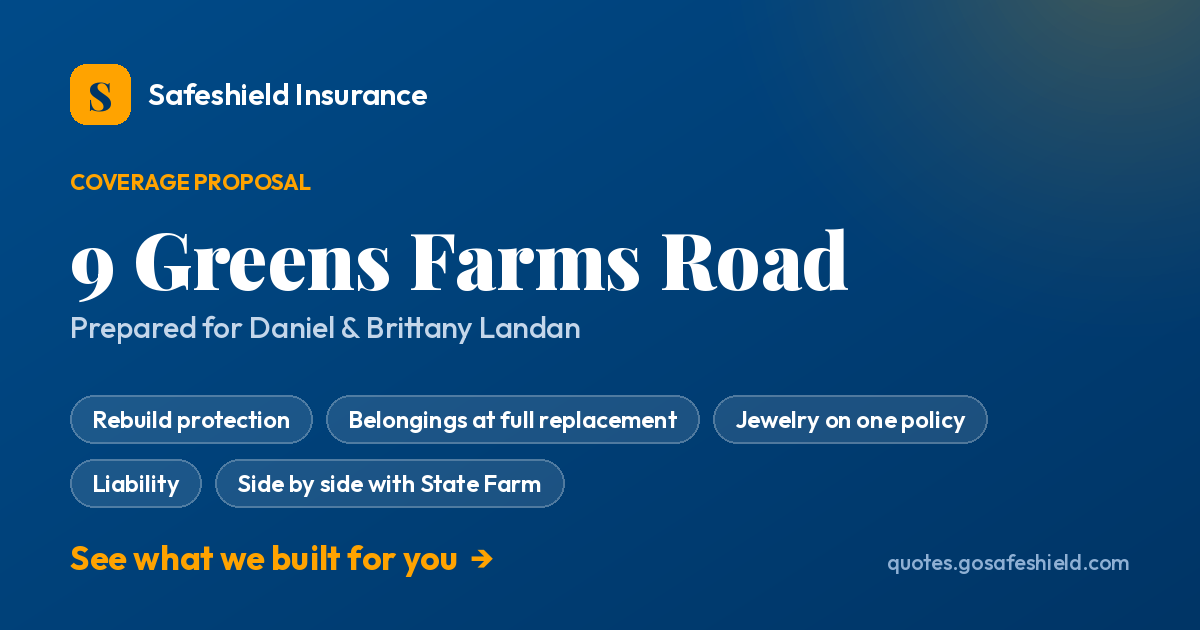
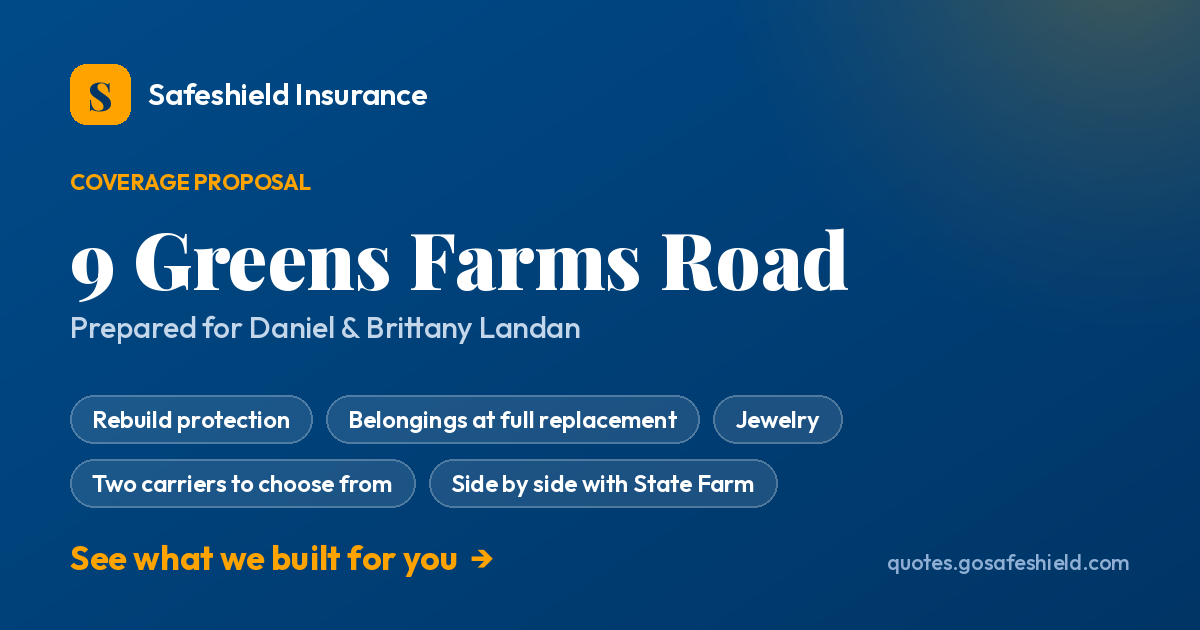
Update quote page: landan (add Travelers option)

Changed region(s): [[0.0617, 0.7238, 0.6475, 0.8143], [0.6783, 0.6032, 0.8325, 0.7238]]

diff --git a/landan/index.html b/landan/index.html
@@ -265,7 +265,40 @@
   .hl .big{font-family:'Playfair Display';font-weight:900;font-size:2rem;color:var(--gold);margin:8px 0 2px;line-height:1}
   .hl .t{font-size:.86rem;color:#c4d6ea}
   .hl .t b{color:#fff;font-weight:600}
+  .vs th.alt{background:var(--paper);color:var(--ink)}
+  .vs th.alt small{display:block;font-weight:500;color:var(--muted);font-size:.72rem}
+  .vs td.alt{font-family:'Outfit';font-weight:600;color:var(--ink);white-space:nowrap}
+  .vs tr.total td.alt{background:var(--navy);color:#fff}
+  .vs tr.group td.alt,.vs tr.group td{background:var(--paper)}
+  .vs td.flag{color:var(--gold-deep)}
+  .vs .tbl{overflow-x:auto}
+  .pick{display:grid;grid-template-columns:1fr 1fr;gap:16px}
+  .pcard{border-radius:18px;padding:26px 24px;position:relative}
+  .pcard.rec{background:linear-gradient(158deg,var(--navy),var(--dark));color:#eaf1f9}
+  .pcard.alt{background:var(--white);border:1.5px solid var(--line);color:var(--ink)}
+  .pcard .badge{display:inline-block;font-family:'Outfit';font-size:.68rem;font-weight:800;letter-spacing:.08em;text-transform:uppercase;padding:4px 11px;border-radius:999px}
+  .pcard.rec .badge{background:var(--gold);color:var(--dark)}
+  .pcard.alt .badge{background:var(--paper);color:var(--muted);border:1px solid var(--line)}
+  .pcard h3{font-size:1.4rem;margin:12px 0 4px}
+  .pcard.rec h3{color:#fff}
+  .pcard .pr{font-family:'Playfair Display';font-weight:900;font-size:2rem;line-height:1;margin:10px 0 4px}
+  .pcard.rec .pr{color:var(--gold)}
+  .pcard.alt .pr{color:var(--navy)}
+  .pcard .pr small{font-family:'Outfit';font-weight:600;font-size:.85rem}
+  .pcard.rec .pr small{color:#a9c6e4}
+  .pcard.alt .pr small{color:var(--muted)}
+  .pcard .yr{font-size:.86rem}
+  .pcard.rec .yr{color:#c4d6ea}
+  .pcard.alt .yr{color:var(--muted)}
+  .pcard ul{list-style:none;margin-top:14px;display:flex;flex-direction:column;gap:9px}
+  .pcard li{font-size:.9rem;padding-left:22px;position:relative}
+  .pcard li::before{content:"✓";position:absolute;left:0;font-weight:800}
+  .pcard.rec li::before{color:var(--gold)}
+  .pcard.alt li::before{color:var(--now)}
+  .pcard li.minus::before{content:"–";color:var(--gold-deep)}
   @media(max-width:760px){
+    .pick{grid-template-columns:1fr}
+    .vs table{min-width:640px}
     .hilite{grid-template-columns:1fr}
     .vs td,.vs th{padding:11px 12px;font-size:.84rem}
     .vs td.ours,.vs td.theirs{white-space:normal}
@@ -283,7 +316,7 @@
     </div>
     <div class="eyebrow">Coverage Proposal</div>
     <h1>9 Greens Farms Road</h1>
-    <p class="lead">We put your current State Farm homeowners policy and your separate jewelry policy side by side with what we built. <b>More house, more belongings paid at full replacement, the jewelry folded in, and it costs a little less.</b> Every number is below.</p>
+    <p class="lead">We put your current State Farm homeowners policy and your separate jewelry policy side by side with what we built. <b>More house, more belongings paid at full replacement, the jewelry folded in, and it costs a little less.</b> You also asked to see a Travelers option, so that is on the page too. Every number is below, and the choice is yours.</p>
     <div class="metastrip">
       <div><div class="k">Prepared for</div><div class="v">Daniel &amp; Brittany Landan</div></div>
       <div><div class="k">Effective</div><div class="v">09/14/2026 to 09/14/2027</div></div>
@@ -338,58 +371,97 @@
   <div class="wrap">
     <div class="sec-head">
       <div class="eyebrow">Side by side</div>
-      <h2>What you have today, next to what we built</h2>
-      <p>State Farm's numbers come straight off the renewal paperwork you sent us (homeowners plus the jewelry policy). Ours come off the Narragansett Bay quote. Green arrows are where you gain.</p>
+      <h2>What you have today, next to both options</h2>
+      <p>State Farm's numbers come straight off the renewal paperwork you sent us (homeowners plus the jewelry policy). The other two columns come off the Narragansett Bay and Travelers quotes. Green arrows are where the Narragansett Bay option gains on State Farm.</p>
     </div>
     <div class="hilite">
       <div class="hl"><div class="k">More house</div><div class="big">+$263,300</div><div class="t">Rebuild limit goes from <b>$773,700</b> to <b>$1,037,000</b>. With the cushion on top, from $967,125 to $1,296,250.</div></div>
       <div class="hl"><div class="k">More belongings</div><div class="big">+$145,625</div><div class="t">From <b>$580,275</b> to <b>$725,900</b>, and paid at full replacement cost instead of a limited version.</div></div>
       <div class="hl"><div class="k">And the price</div><div class="big">$39 less</div><div class="t">Both State Farm policies add up to <b>$4,705</b> a year. This one is <b>$4,666</b>, jewelry included.</div></div>
     </div>
-    <div class="vs">
+    <div class="vs"><div class="tbl">
       <table>
         <thead>
           <tr>
             <th></th>
-            <th class="ours">Safeshield proposal<small>Narragansett Bay, one policy</small></th>
+            <th class="ours">Narragansett Bay<small>Our recommendation, one policy</small></th>
+            <th class="alt">Travelers<small>The option you asked about, two policies</small></th>
             <th class="theirs">State Farm today<small>Homeowners + jewelry policy</small></th>
           </tr>
         </thead>
         <tbody>
-          <tr class="group"><td colspan="3">The house</td></tr>
-          <tr class="win"><td class="lbl">Rebuild the house<small>What the policy pays to put it back after a total loss</small></td><td class="ours">$1,037,000</td><td class="theirs">$773,700</td></tr>
-          <tr class="win"><td class="lbl">Extra if rebuilding runs over<small>The cushion above the rebuild number</small></td><td class="ours">+$259,250 (25%)</td><td class="theirs">+$193,425</td></tr>
-          <tr class="win"><td class="lbl">Total rebuild protection<small>Rebuild limit plus the cushion</small></td><td class="ours">$1,296,250</td><td class="theirs">$967,125</td></tr>
-          <tr class="win"><td class="lbl">Detached structures<small>Shed, fence, pool, anything not attached</small></td><td class="ours">$103,700</td><td class="theirs">$77,370</td></tr>
-          <tr class="win"><td class="lbl">Rebuilding to today's building code<small>Extra cost when the town requires newer standards</small></td><td class="ours">$103,700</td><td class="theirs">$77,370</td></tr>
-
-          <tr class="group"><td colspan="3">Everything inside</td></tr>
-          <tr class="win"><td class="lbl">Your belongings<small>Furniture, electronics, clothes, tools, all of it</small></td><td class="ours">$725,900</td><td class="theirs">$580,275</td></tr>
-          <tr class="win"><td class="lbl">How belongings are paid<small>This line matters more than almost anything else on the page</small></td><td class="ours">Full replacement cost</td><td class="theirs">Limited replacement cost</td></tr>
-          <tr class="win"><td class="lbl">Jewelry<small>Scheduled, with the value agreed up front</small></td><td class="ours">$15,164 on this policy</td><td class="theirs">$15,164 on a 2nd policy</td></tr>
-          <tr class="win"><td class="lbl">Living costs if you cannot use the house<small>Hotel, rental, meals while it is rebuilt</small></td><td class="ours">$311,100</td><td class="theirs">$232,110</td></tr>
-
-          <tr class="group"><td colspan="3">You, personally</td></tr>
-          <tr class="same"><td class="lbl">If someone gets hurt<small>Liability for injuries and the lawyers that come with them</small></td><td class="ours">$500,000</td><td class="theirs">$500,000</td></tr>
-          <tr class="same"><td class="lbl">Small injuries, no lawsuit needed<small>Medical bills for a guest</small></td><td class="ours">$5,000</td><td class="theirs">$5,000</td></tr>
-          <tr class="win"><td class="lbl">Libel, slander, invasion of privacy<small>Personal injury liability</small></td><td class="ours">Included</td><td class="theirs">Not on the policy</td></tr>
-          <tr class="win"><td class="lbl">Identity theft expenses</td><td class="ours">$15,000</td><td class="theirs">Not on the policy</td></tr>
-
-          <tr class="group"><td colspan="3">The quiet extras</td></tr>
-          <tr class="win"><td class="lbl">Furnace, AC, water heater, appliances breaking down<small>Equipment breakdown</small></td><td class="ours">$100,000</td><td class="theirs">Not on the policy</td></tr>
-          <tr class="win"><td class="lbl">Mold cleanup after a covered water loss</td><td class="ours">$10,000 / $50,000</td><td class="theirs">$10,000</td></tr>
-          <tr class="win"><td class="lbl">Neighborhood or association assessments</td><td class="ours">$1,000</td><td class="theirs">Not on the policy</td></tr>
-          <tr class="theirs-win"><td class="lbl">Sewer or sump pump backup<small>State Farm is higher here. See the straight talk section below.</small></td><td class="ours">$10,000</td><td class="theirs">$38,685</td></tr>
-
-          <tr class="group"><td colspan="3">Your share on a claim</td></tr>
-          <tr class="theirs-win"><td class="lbl">Deductible on most claims</td><td class="ours">$2,500</td><td class="theirs">$2,000</td></tr>
-          <tr><td class="lbl">Deductible on a named hurricane<small>Both are 2% of the rebuild limit, so ours is larger because the house is insured for more</small></td><td class="ours">$20,740</td><td class="theirs">$15,474</td></tr>
-
-          <tr class="total"><td class="lbl">Total for the year<small>House, belongings, and jewelry, all in</small></td><td class="ours">$4,666</td><td class="theirs">$4,705</td></tr>
+          <tr class="group"><td colspan="4">The house</td></tr>
+          <tr class="win"><td class="lbl">Rebuild the house<small>What the policy pays to put it back after a total loss</small></td><td class="ours">$1,037,000</td><td class="alt">$1,000,000</td><td class="theirs">$773,700</td></tr>
+          <tr class="win"><td class="lbl">Extra if rebuilding runs over<small>The cushion above the rebuild number</small></td><td class="ours">+$259,250 (25%)</td><td class="alt">+$250,000 (25%)</td><td class="theirs">+$193,425</td></tr>
+          <tr class="win"><td class="lbl">Total rebuild protection<small>Rebuild limit plus the cushion</small></td><td class="ours">$1,296,250</td><td class="alt">$1,250,000</td><td class="theirs">$967,125</td></tr>
+          <tr class="win"><td class="lbl">Detached structures<small>Shed, fence, pool, anything not attached</small></td><td class="ours">$103,700</td><td class="alt">$100,000</td><td class="theirs">$77,370</td></tr>
+          <tr class="win"><td class="lbl">Rebuilding to today's building code<small>Extra cost when the town requires newer standards</small></td><td class="ours">$103,700</td><td class="alt">Included</td><td class="theirs">$77,370</td></tr>
+          <tr class=""><td class="lbl">Roof after a wind or hail storm<small>How an 18-year-old roof is paid</small></td><td class="ours">Full repair cost</td><td class="alt">Paid on an age schedule <span class="flag">▲</span></td><td class="theirs">Full repair cost</td></tr>
+          <tr class="group"><td colspan="4">Everything inside</td></tr>
+          <tr class="win"><td class="lbl">Your belongings<small>Furniture, electronics, clothes, tools, all of it</small></td><td class="ours">$725,900</td><td class="alt">$500,000</td><td class="theirs">$580,275</td></tr>
+          <tr class="win"><td class="lbl">How belongings are paid<small>This line matters more than almost anything else on the page</small></td><td class="ours">Full replacement cost</td><td class="alt">Full replacement cost</td><td class="theirs">Limited replacement cost</td></tr>
+          <tr class="win"><td class="lbl">Jewelry<small>Scheduled, with the value agreed up front</small></td><td class="ours">$15,164 on this policy</td><td class="alt">$15,710 on a 2nd policy</td><td class="theirs">$15,164 on a 2nd policy</td></tr>
+          <tr class="win"><td class="lbl">Living costs if you cannot use the house<small>Hotel, rental, meals while it is rebuilt</small></td><td class="ours">$311,100</td><td class="alt">$200,000 <span class="flag">▲</span></td><td class="theirs">$232,110</td></tr>
+          <tr class="group"><td colspan="4">You, personally</td></tr>
+          <tr class="same"><td class="lbl">If someone gets hurt<small>Liability for injuries and the lawyers that come with them</small></td><td class="ours">$500,000</td><td class="alt">$500,000</td><td class="theirs">$500,000</td></tr>
+          <tr class="same"><td class="lbl">Small injuries, no lawsuit needed<small>Medical bills for a guest</small></td><td class="ours">$5,000</td><td class="alt">$1,000</td><td class="theirs">$5,000</td></tr>
+          <tr class="win"><td class="lbl">Libel, slander, invasion of privacy<small>Personal injury liability</small></td><td class="ours">Included</td><td class="alt">Included</td><td class="theirs">Not on the policy</td></tr>
+          <tr class="win"><td class="lbl">Identity theft expenses</td><td class="ours">$15,000</td><td class="alt">Not on the policy</td><td class="theirs">Not on the policy</td></tr>
+          <tr class="group"><td colspan="4">The quiet extras</td></tr>
+          <tr class="win"><td class="lbl">Furnace, AC, water heater, appliances breaking down<small>Equipment breakdown</small></td><td class="ours">$100,000</td><td class="alt">Not on the policy</td><td class="theirs">Not on the policy</td></tr>
+          <tr class="win"><td class="lbl">Mold cleanup after a covered water loss</td><td class="ours">$10,000 / $50,000</td><td class="alt">Standard limit</td><td class="theirs">$10,000</td></tr>
+          <tr class="win"><td class="lbl">Neighborhood or association assessments</td><td class="ours">$1,000</td><td class="alt">Not on the policy</td><td class="theirs">Not on the policy</td></tr>
+          <tr class="theirs-win"><td class="lbl">Sewer or sump pump backup<small>State Farm is higher here. See the straight talk section below.</small></td><td class="ours">$10,000</td><td class="alt">$10,000</td><td class="theirs">$38,685</td></tr>
+          <tr class="group"><td colspan="4">Your share on a claim</td></tr>
+          <tr class="theirs-win"><td class="lbl">Deductible on most claims</td><td class="ours">$2,500</td><td class="alt">$2,500</td><td class="theirs">$2,000</td></tr>
+          <tr class=""><td class="lbl">Deductible on a named hurricane<small>All three are 2% of the rebuild limit, so the bigger the house is insured for, the bigger this is</small></td><td class="ours">$20,740</td><td class="alt">$20,000</td><td class="theirs">$15,474</td></tr>
+          <tr class="total"><td class="lbl">Total for the year<small>House, belongings, and jewelry, all in</small></td><td class="ours">$4,666</td><td class="alt">$5,228</td><td class="theirs">$4,705</td></tr>
         </tbody>
       </table>
+    </div></div>
+    <div class="vsnote">State Farm total is the $4,542 homeowners renewal (effective 09/21/2026) plus the $163 jewelry policy (renewed 08/10/2026). Travelers total is the $5,032 home quote plus the $196 engagement ring policy. All three are 12-month terms. ▲ marks a line worth reading in the straight talk section below.</div>
+  </div>
+</section>
+
+<!-- PICK -->
+<section class="tight">
+  <div class="wrap">
+    <div class="sec-head">
+      <div class="eyebrow">Your two options</div>
+      <h2>Both beat what you have. Here is how they differ.</h2>
+      <p>We lean Narragansett Bay, and the reasons are below. But this is your house and your call, and either one is a phone call away.</p>
     </div>
-    <div class="vsnote">State Farm total is the $4,542 homeowners renewal (effective 09/21/2026) plus the $163 jewelry policy (renewed 08/10/2026). Both use the same 12-month term.</div>
+    <div class="pick">
+      <div class="pcard rec">
+        <span class="badge">Our recommendation</span>
+        <h3>Narragansett Bay</h3>
+        <div class="pr">$388<small>/mo</small></div>
+        <div class="yr">$4,666 for the year, jewelry included, one policy and one bill</div>
+        <ul>
+          <li>Most house: $1,296,250 total rebuild protection</li>
+          <li>Most belongings: $725,900 at full replacement cost</li>
+          <li>$311,100 for living costs if you are displaced</li>
+          <li>Equipment breakdown and identity theft, which Travelers does not offer here</li>
+          <li>Roof paid at full repair cost after a storm, no age schedule</li>
+          <li>Lowest price of the three</li>
+        </ul>
+      </div>
+      <div class="pcard alt">
+        <span class="badge">The Travelers option</span>
+        <h3>Travelers</h3>
+        <div class="pr">$436<small>/mo</small></div>
+        <div class="yr">$5,228 for the year: $5,032 for the house plus a $196 ring policy, two bills</div>
+        <ul>
+          <li>A name you know, with $1,250,000 total rebuild protection</li>
+          <li>Belongings at full replacement cost, $500,000</li>
+          <li>Engagement ring scheduled at $15,710 with no deductible</li>
+          <li>Water backup and personal injury included</li>
+          <li class="minus">$200,000 for living costs, which Travelers itself flags as below their usual</li>
+          <li class="minus">An 18-year-old roof is paid on an age schedule after wind or hail, not full cost</li>
+          <li class="minus">$562 more a year than Narragansett Bay</li>
+        </ul>
+      </div>
+    </div>
   </div>
 </section>
 
@@ -398,8 +470,8 @@
   <div class="wrap">
     <div class="sec-head">
       <div class="eyebrow">What's inside</div>
-      <h2>Your coverage, card by card</h2>
-      <p>The limits that matter, with a plain-English "what this actually means" on each. Tap to open.</p>
+      <h2>The recommended policy, card by card</h2>
+      <p>These cards walk through the Narragansett Bay policy. The limits that matter, with a plain-English "what this actually means" on each. Tap to open.</p>
     </div>
     <div class="cov">
 
@@ -549,6 +621,8 @@
           <li><b>Deductible is $2,500, not $2,000</b><small>$500 more on a claim. We can rerun it at $2,000 if you would rather, and the premium moves a little.</small></li>
           <li><b>Hurricane deductible is 2% on both</b><small>Ours is $20,740 versus $15,474 only because the house is insured for more. Same percentage.</small></li>
           <li><b>Flood is separate</b><small>No homeowners policy covers rising water. If you want it priced alongside this, just ask.</small></li>
+          <li><b>If you go Travelers, read the roof line</b><small>Travelers pays wind and hail damage to an 18-year-old asphalt roof on an age schedule, so a $30,000 roof might pay out closer to half. Narragansett Bay pays the full repair cost. This is the biggest coverage difference between the two.</small></li>
+          <li><b>The Travelers price assumes a multi-policy discount</b><small>The $5,032 has a bundle discount built in. If the cars are not with Travelers too, that number goes up.</small></li>
           <li><b>Umbrella</b><small>With a home at this value, another $1,000,000 of liability over the house and cars is worth a look. Usually a few hundred a year.</small></li>
         </ul>
       </div>
@@ -562,7 +636,7 @@
     <div class="sec-head">
       <div class="eyebrow">The investment</div>
       <h2>What it costs</h2>
-      <p>Itemized. Pick your plan above and this updates to match.</p>
+      <p>The Narragansett Bay policy, itemized. Pick your plan above and this updates to match. The Travelers option runs $5,032 for the house plus $196 for the ring, about $421 a month on autopay plus the ring policy.</p>
     </div>
     <div class="invest">
       <div class="irow"><div class="n">Homeowners policy<small>House, detached structures, belongings, living costs, liability · all credits and discounts applied</small></div><div class="p"><span class="amt-num" data-annual="3723">$309</span><span class="per">/mo</span></div></div>
@@ -585,9 +659,9 @@
   <div class="wrap">
     <div class="cta">
       <h2>Ready to make the switch?</h2>
-      <p>Reply with a yes and pick your payment plan. Coverage starts 09/14/2026, a week before the State Farm renewal, and we handle cancelling both State Farm policies and getting any refund back to you. This quote is good for 30 days.</p>
+      <p>Reply with the one you want, Narragansett Bay or Travelers, and pick your payment plan. Coverage starts 09/14/2026, a week before the State Farm renewal, and we handle cancelling both State Farm policies and getting any refund back to you. This quote is good for 30 days.</p>
       <div class="btns">
-        <a class="btn primary" href="mailto:austin@gosafeshield.com?subject=9%20Greens%20Farms%20Rd%20-%20Let's%20move%20forward&body=Hi%20Austin%2C%20I%20reviewed%20the%20proposal.%20Let's%20get%20it%20started.">Let's move forward</a>
+        <a class="btn primary" href="mailto:austin@gosafeshield.com?subject=9%20Greens%20Farms%20Rd%20-%20Let's%20move%20forward&body=Hi%20Austin%2C%20I%20reviewed%20the%20proposal.%20Let's%20go%20with%20">Let's move forward</a>
         <a class="btn ghost" href="tel:2032042555">Call Austin</a>
       </div>
       <div class="signoff">
@@ -600,7 +674,7 @@
 
 <div class="disc">
   <div class="wrap">
-    This proposal is a summary prepared for Daniel and Brittany Landan and is not a binding contract of insurance. Coverage is bound only when confirmed in writing and is subject to the actual policy terms, conditions, exclusions, and underwriting approval. Proposed limits and premiums are quoted by Narragansett Bay Insurance Company (quote CTHQ02038528) as of 09/04/2026 for a 12-month policy period beginning 09/14/2026, and rates are not guaranteed until bound. State Farm figures are taken from the State Farm Fire and Casualty Company renewal declarations for policy 07-BP-A234-3 (prepared 07/16/2026) and personal articles policy 07-BV-Z914-0 (prepared 06/04/2026) as provided by the client; refer to those documents for the full terms of the current coverage. Installment plans carry a $5 per-payment fee on the 4-pay and 9-pay options; the monthly autopay plan has no installment fee. Flood is not covered by any homeowners policy.
+    This proposal is a summary prepared for Daniel and Brittany Landan and is not a binding contract of insurance. Coverage is bound only when confirmed in writing and is subject to the actual policy terms, conditions, exclusions, and underwriting approval. Proposed limits and premiums are quoted by Narragansett Bay Insurance Company (quote CTHQ02038528) as of 09/04/2026 for a 12-month policy period beginning 09/14/2026, and rates are not guaranteed until bound. Travelers figures are from the Travelers Personal Insurance Company home quote and Phoenix Insurance Company personal articles floater quote (CCF 0006362577827) as of 09/04/2026 for the same 12-month period, and the quoted premium reflects a multi-policy discount subject to eligibility. State Farm figures are taken from the State Farm Fire and Casualty Company renewal declarations for policy 07-BP-A234-3 (prepared 07/16/2026) and personal articles policy 07-BV-Z914-0 (prepared 06/04/2026) as provided by the client; refer to those documents for the full terms of the current coverage. Installment plans carry a $5 per-payment fee on the 4-pay and 9-pay options; the monthly autopay plan has no installment fee. Flood is not covered by any homeowners policy.
   </div>
 </div>
 
